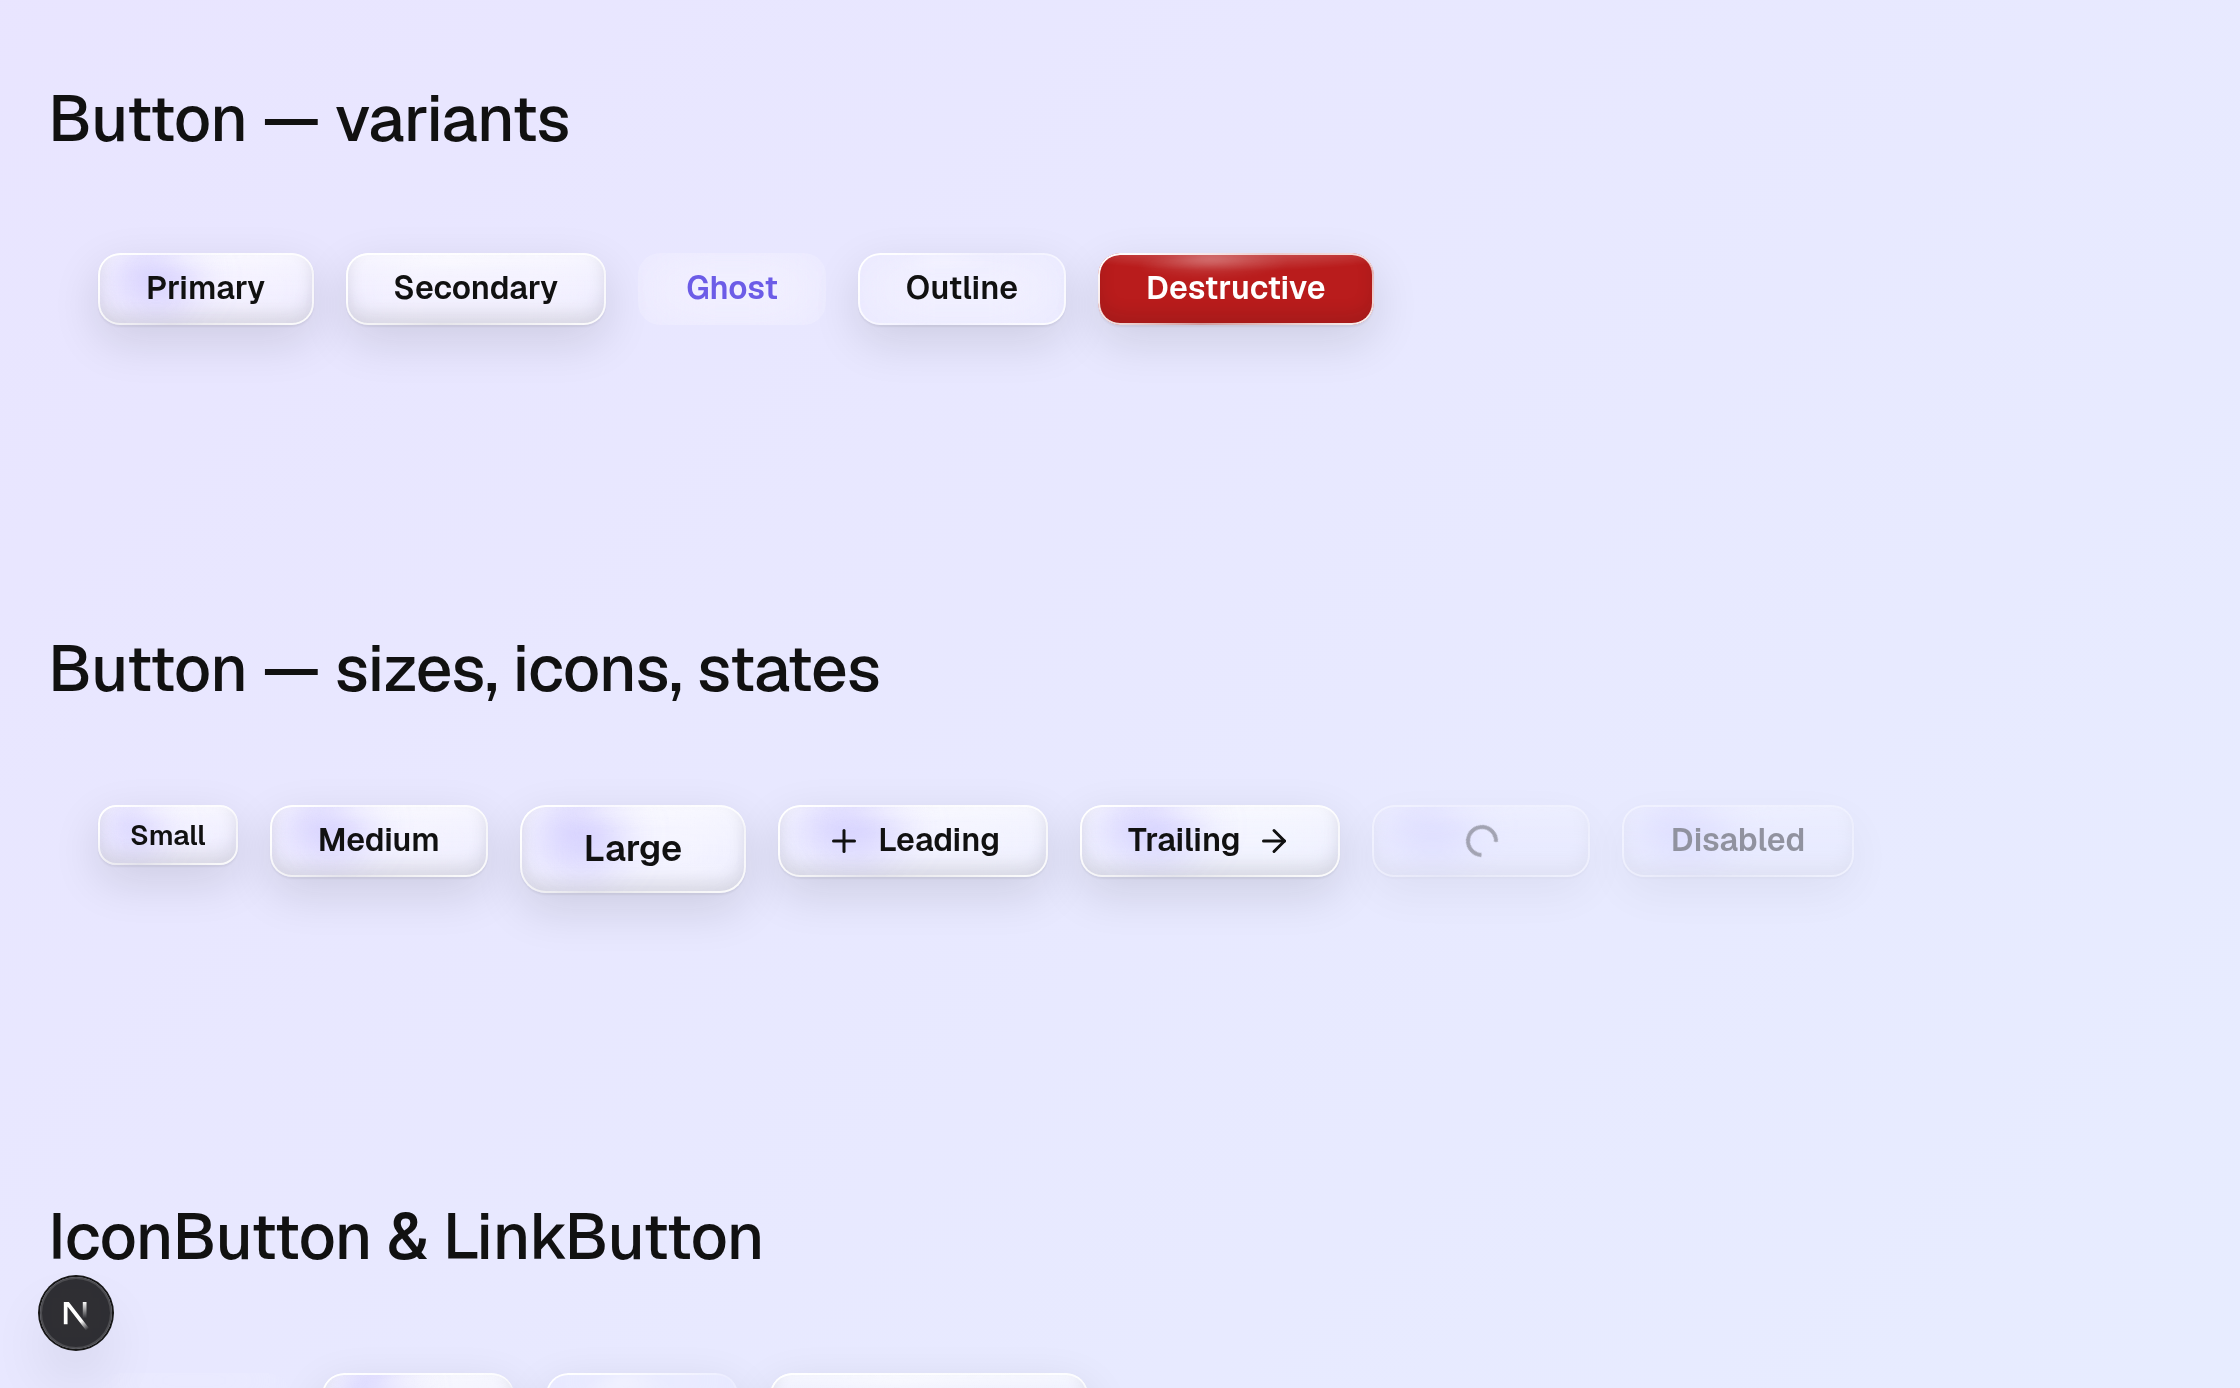
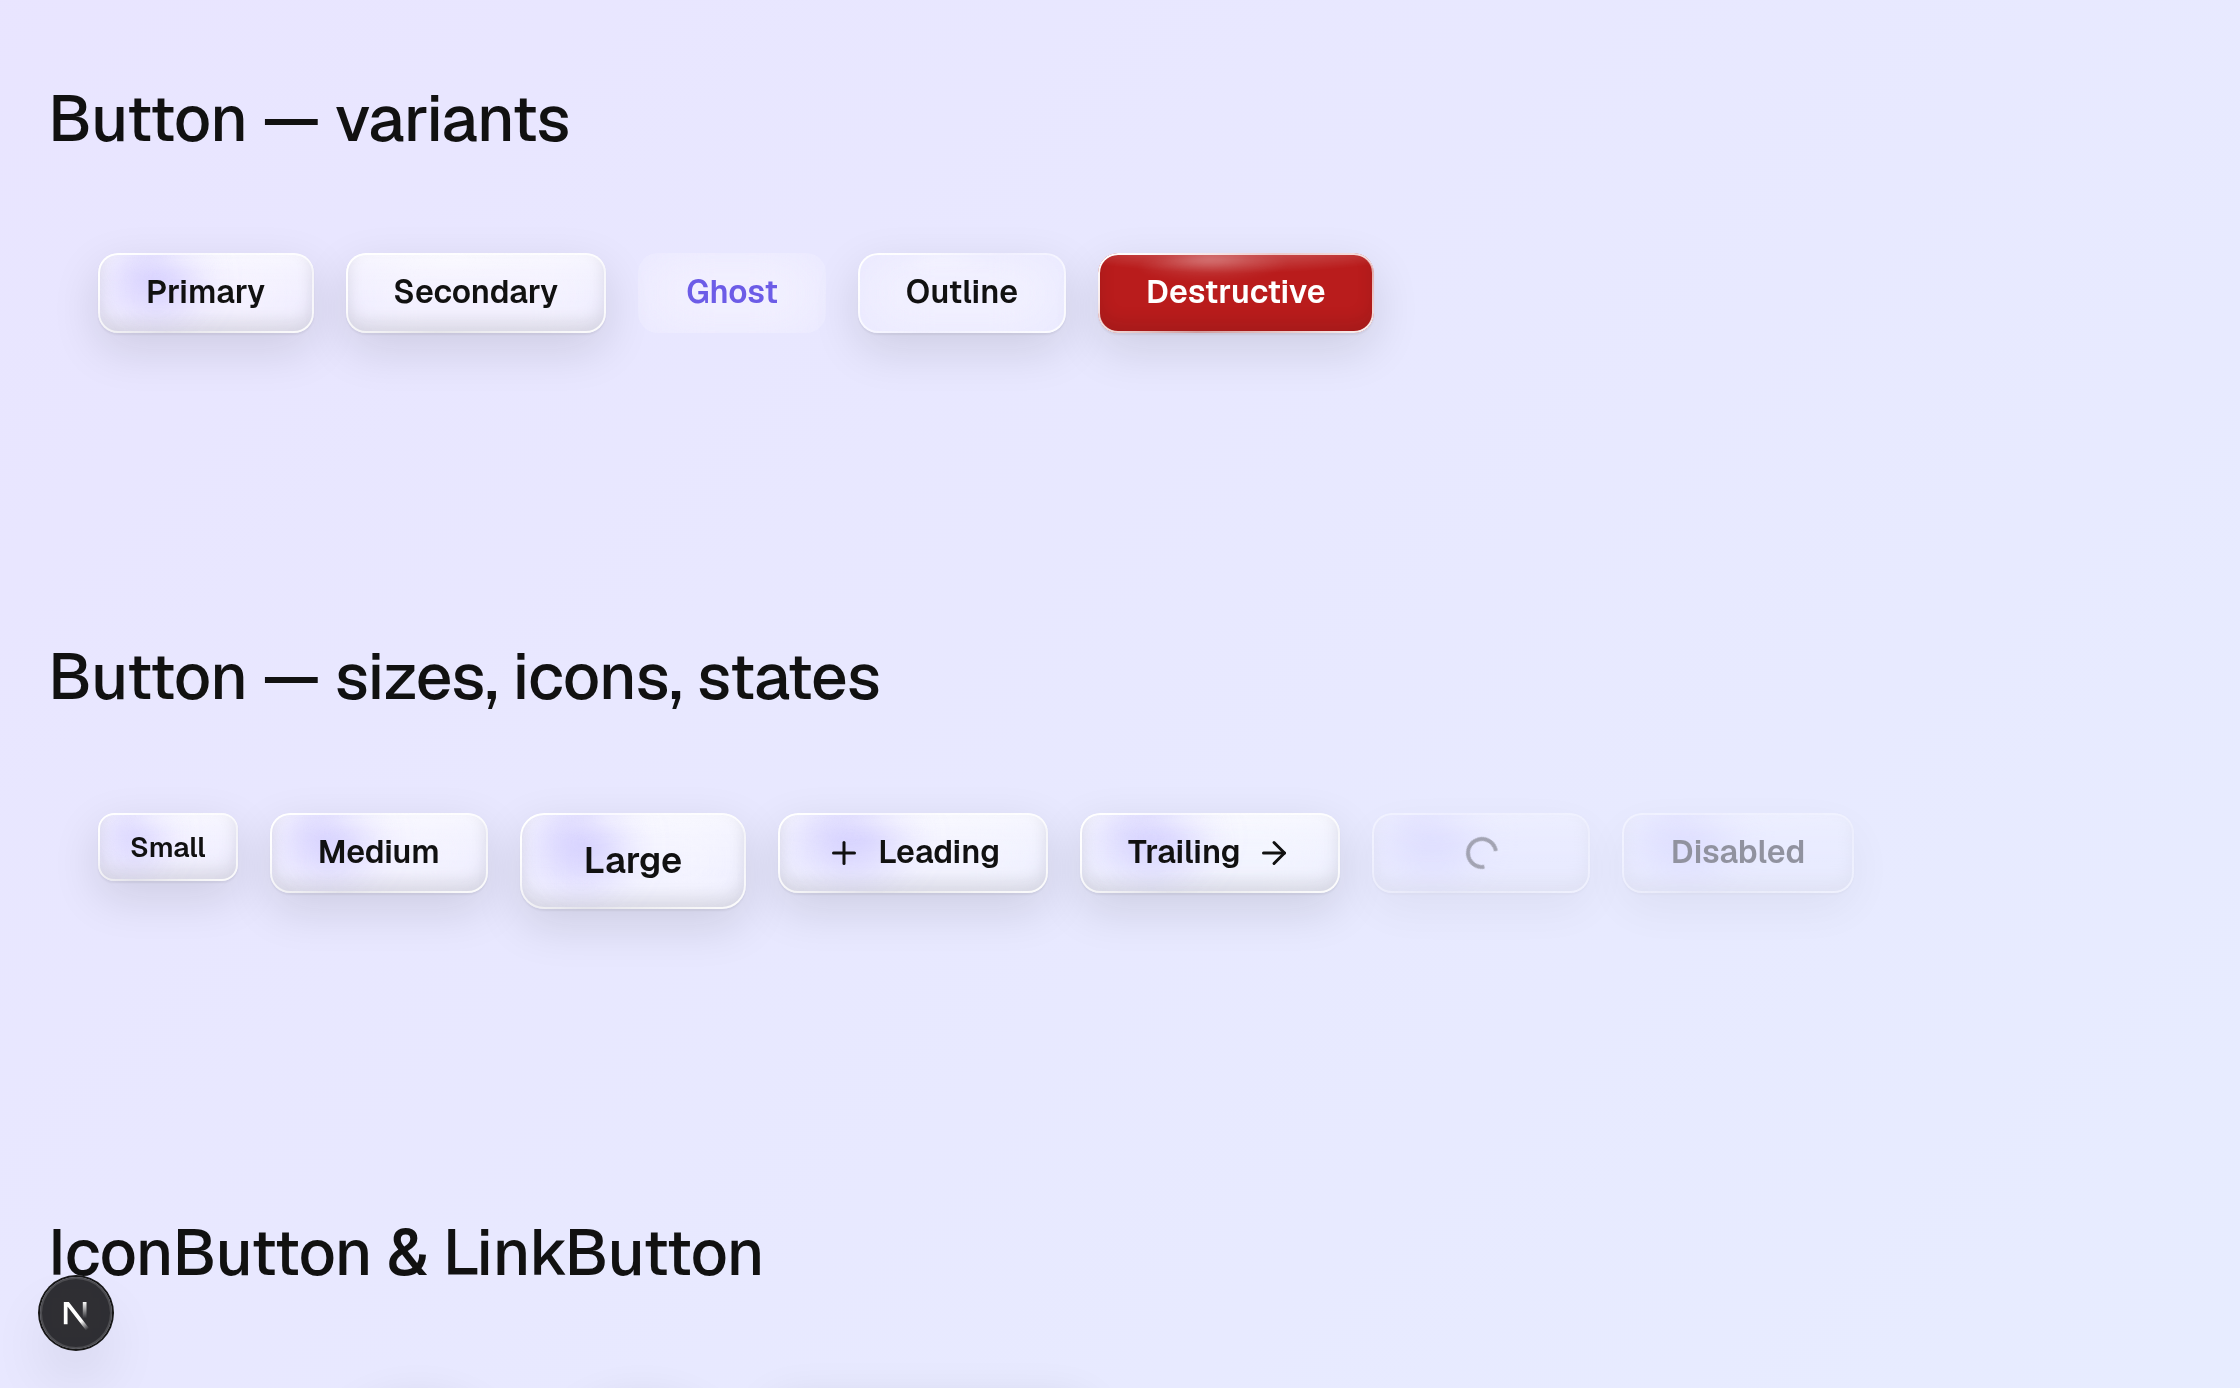
fix(button): final Micro calibration — more presence, tighter radius
Last geometry-only pass: recover ~12% vertical presence so the glass frames the
label (the object reads before the text), and reduce the radius ~10% so it reads
as a machined block, not a capsule. Compact horizontal padding kept (width still
content-driven). h-[34/40/48px], px-4/5/6, rounded-[8/10/12px]. Material, optics,
shadows, light, glass.css untouched. Silhouette (text masked) reads as a premium
glass piece.

Claude-Session: https://claude.ai/code/session_01JSKxADquWPscGGWu93W5g6

diff --git a/src/components/ui/button.tsx b/src/components/ui/button.tsx
@@ -40,9 +40,9 @@ export const buttonVariants = cva(
       // pill. A short "OK" and a long "Start your journey" stay the same family
       // (same height, padding, radius). Material/optics are unchanged.
       size: {
-        sm: 'h-[30px] px-4 text-body-sm rounded-[9px]',
-        md: 'h-[36px] px-5 text-body rounded-[11px]',
-        lg: 'h-[44px] px-6 text-body-lg rounded-[13px]',
+        sm: 'h-[34px] px-4 text-body-sm rounded-[8px]',
+        md: 'h-[40px] px-5 text-body rounded-[10px]',
+        lg: 'h-[48px] px-6 text-body-lg rounded-[12px]',
       },
     },
     defaultVariants: { variant: 'primary', size: 'md' },
